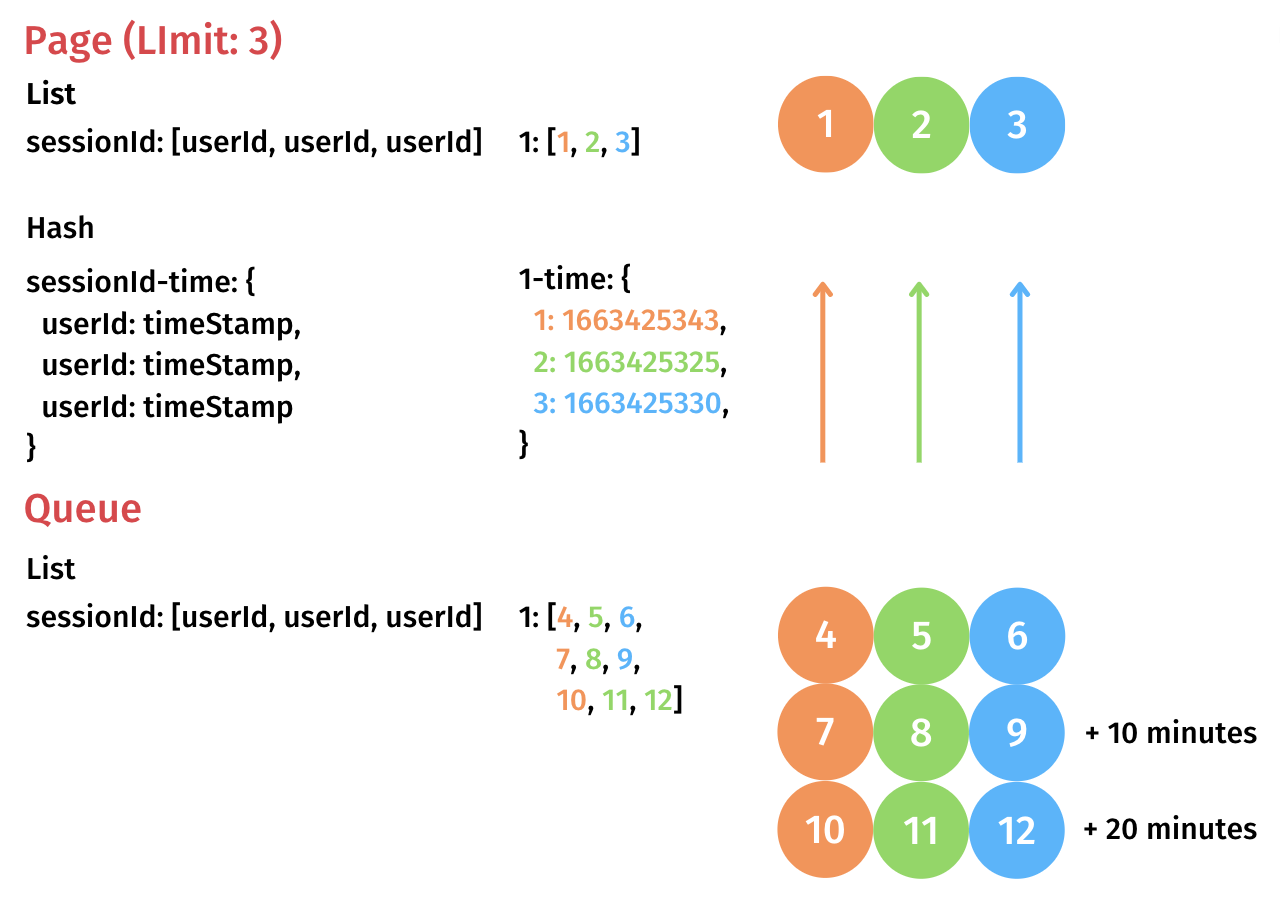
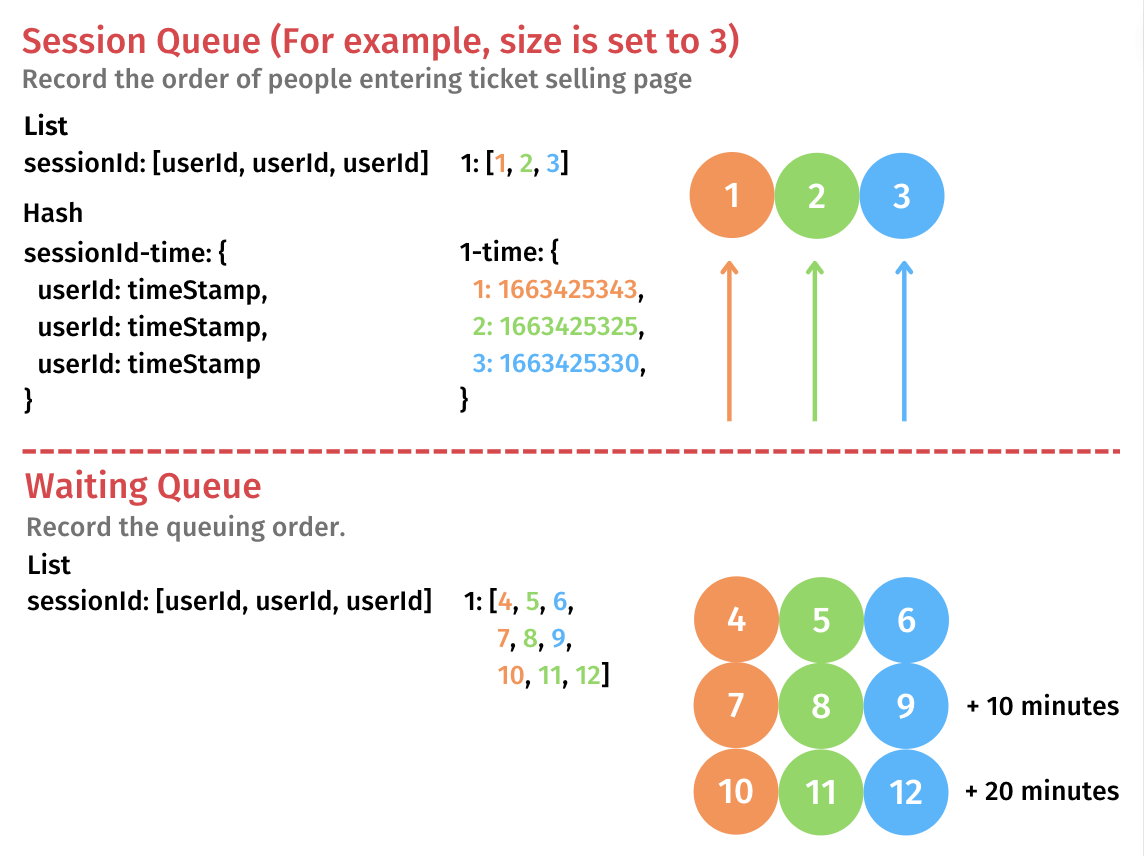
doc: add load test todo

diff --git a/README.md b/README.md
@@ -27,7 +27,7 @@ Each account can only purchase 4 tickets per show. If the account reaches the li
 ## Tech Stack
 
 - Frontend: React
-- Backend: node.js, Express, Socket.IO
+- Backend: Node.js, Express, Socket.IO
 - Database: RDS(MySQL), Redis
 - Cloud Service: EC2, S3, CloudFront, Elastic Load Balance, Auto Scaling, CloudWatch EventBridge, Lambda
 - CD: GitHub Action, Docker, Code Deploy
@@ -67,9 +67,9 @@ Tool: Redis (List & Hash)
 
 <img width="60%" alt="redis" src="./public/readme/redis.png">
 
-1. Use List to record the order of people entering ticket selling page.
-2. Use Hash to record the timestamp of each user entering the ticket selling page.
-3. If the number of people inside the page reaches the limit, another list will record the queuing order.
+1. Use `List` to record the order of people entering ticket selling page.
+2. Use `Hash` to record the timestamp of each user entering the ticket selling page.
+3. If the session queue is full, the new arriving requests will enqueue to the waiting queue.
 4. There is a 10-minute time limit for the purchasing process. Use the index to find the corresponding user that each queuing user should wait for and calculate the estimated waiting time.
 
 For example:
@@ -142,6 +142,8 @@ By upgrading the instance type from t3.micro to t3.small, the max connections ha
 
 ### Comparison
 
-Assuming the goal is to provide 80,000 stable socket connections, if the instances run for 30 days, vertical scaling  with a lower cost.
+Assuming the goal is to provide 80,000 stable socket connections, if the instances run for 30 days, vertical scaling comes with a lower cost.
 
 <img width="80%" alt="scaling-comparison" src="./public/readme/scaling-comparison.png">
+
+However, horizontal scaling with t3.small should also be implemented to verify the comparison of two scaling method, as it might be the poor performance from t3.micro.
